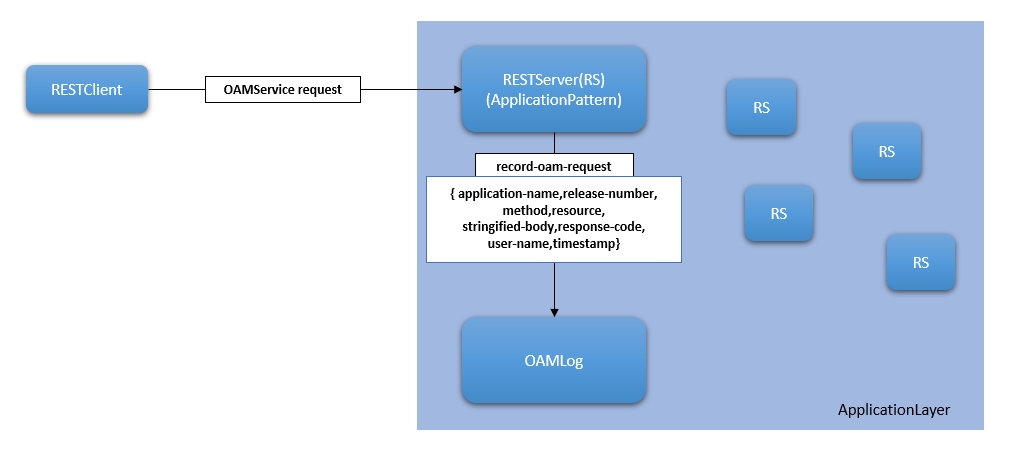
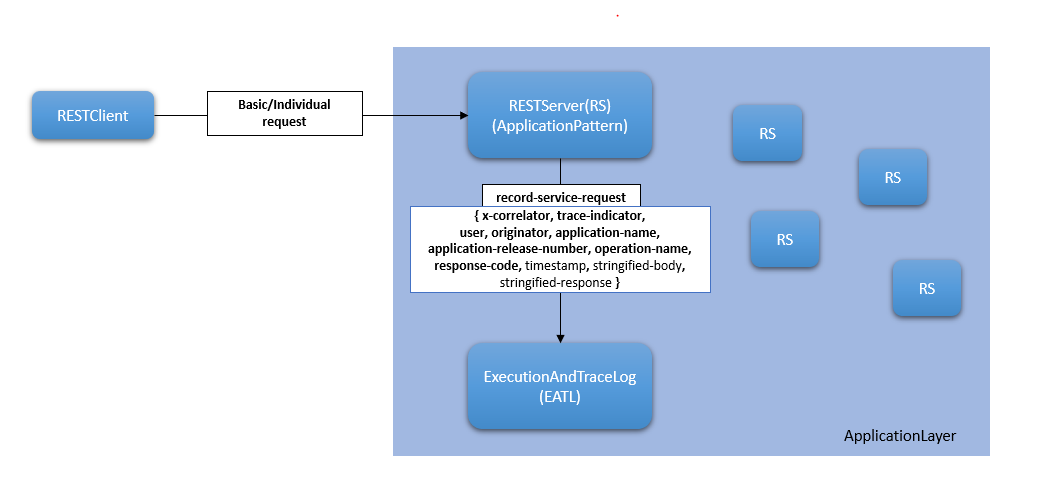
Resolving the typos in ConceptofIndividualServices

Changed region(s): [[0.1818, 0.0302, 0.9697, 0.9374], [0.0, 0.121, 0.1515, 0.3024], [0.697, 0.1512, 0.7879, 0.3326]]

diff --git a/doc/ImplementingApplications/ConceptOfIndividualServices/ConceptOfIndividualServices.md b/doc/ImplementingApplications/ConceptOfIndividualServices/ConceptOfIndividualServices.md
@@ -3,13 +3,13 @@
  * All the individual request are specific the current application's use-case.
  * To understand the requirement , the Open API Specification and load file shared for this application needs to be understood.
  * All the Individual request needs to send the following three parameters in the response header , 
-   * x-correlator : s'UUID for the service execution flow that allows to correlate requests and responses. Its value must be identical at the response compared with its corresponding request'
+   * x-correlator : UUID for the service execution flow that allows to correlate requests and responses. Its value must be identical at the response compared with its corresponding request'
    * exec-time : reporting the total elapsed time for the execution, including all the additional processing needed to retrieve the data from the backend service. Expressed in milliseconds'
    * life-cycle-state : Life cycle state of the consumed service
    * backend-time : reporting the elapsed time for data retrieval from the backend (service invocation, database access…). Expressed in milliseconds
- * Using the JSONDriver in the DatabaseDriver module of the ApplicationPattern the manipulation of the CONFIGFile this shall be done with minimum effort. 
- * All the Individual requests shall be approved by AdministratorAdministration application. Please refer [Authorization](../ConceptOfAuthenticationAuthorization/ConceptOfAuthenticationAuthorization.md) for further details.
- * All the individual requests shall be logged to the OAMLog application. Please refer [logging](../ConceptOfLogDirection/ConceptOfLogDirection.md) section for further details.
+ * Using the JSONDriver in the DatabaseDriver module of the ApplicationPattern, the manipulation of the CONFIGFile shall be done with minimum effort. 
+ * All the Individual requests shall be approved by operation-key. Please refer [Authorization](../ConceptOfAuthenticationAuthorization/ConceptOfAuthenticationAuthorization.md) for further details.
+ * All the individual requests shall be logged to the ExecutionAndTraceLog(EaTL) application. Please refer [logging](../ConceptOfLogDirection/ConceptOfLogDirection.md) section for further details.
 
 
 
